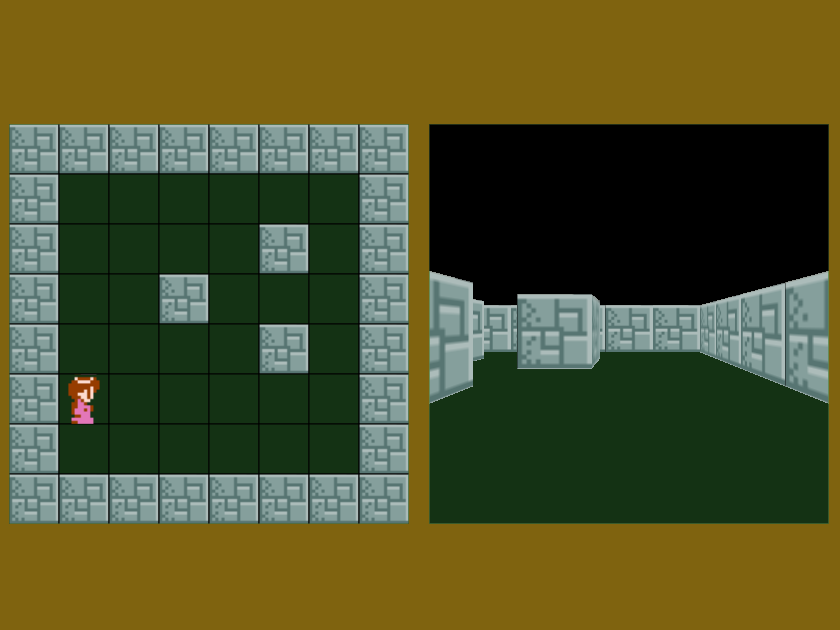
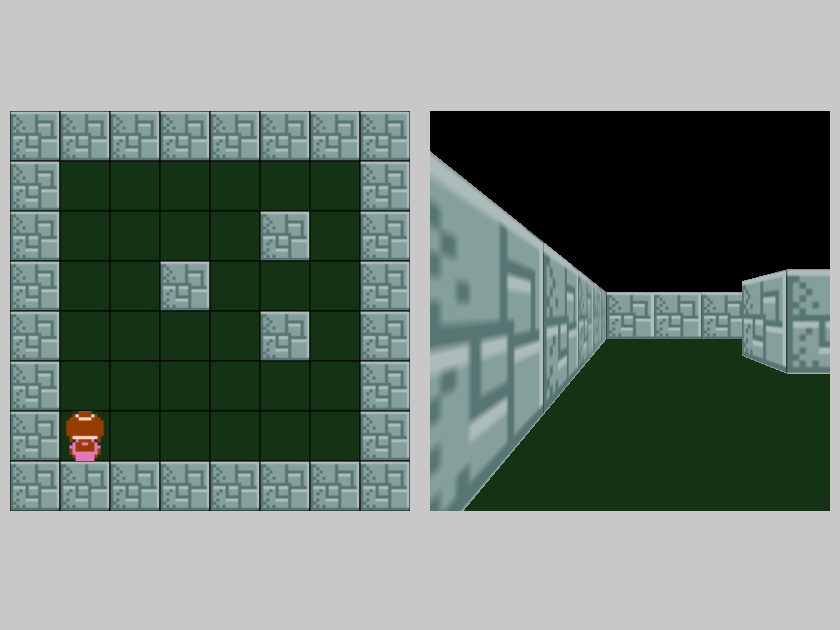
litte change for 3D maze

diff --git a/maze_threejs/style.css b/maze_threejs/style.css
@@ -5,7 +5,7 @@ body {
     align-items: center;
     justify-content: center;
     padding: 0;
-    background-color: rgb(127, 99, 15);
+    background-color: rgb(200, 200, 200);
 }
 * {
     margin: 0;
